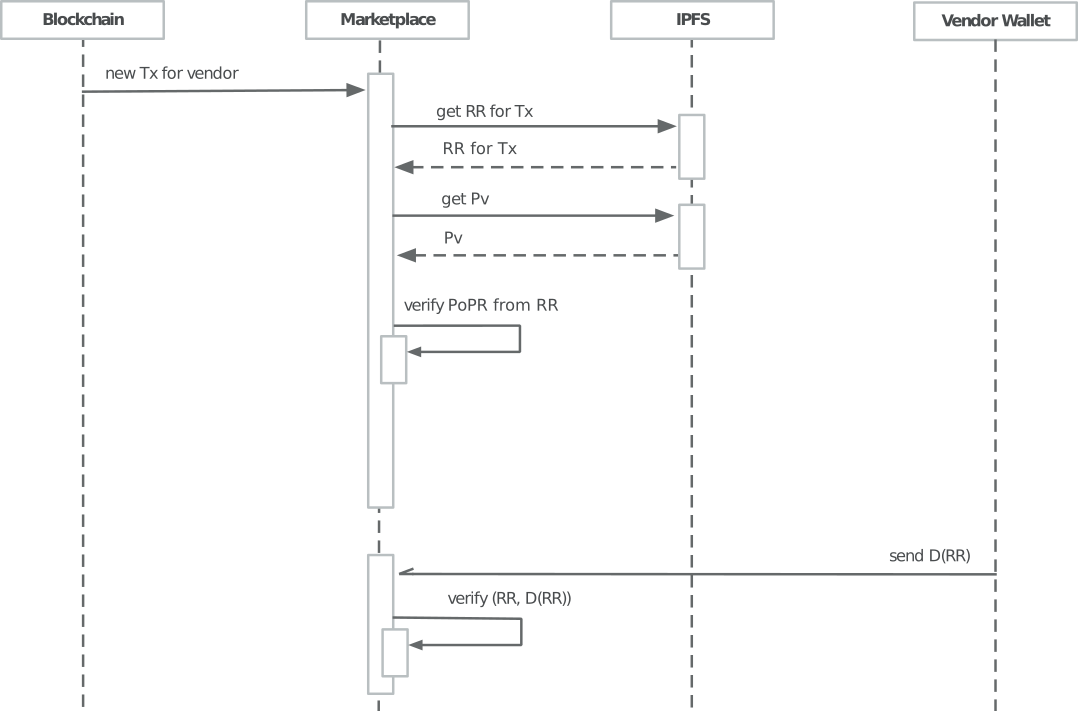
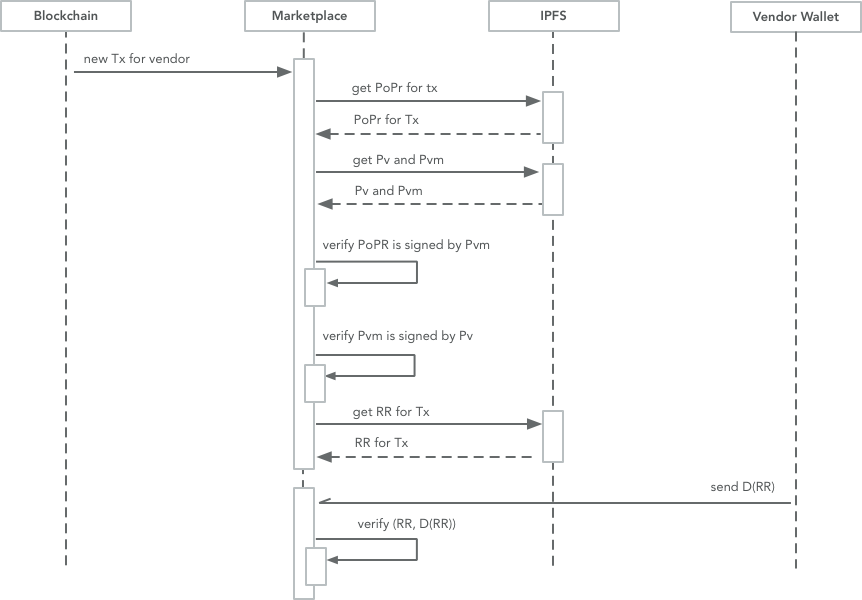
Update protocol to remove dependency on IPNS and include timestamping

diff --git a/chlu_protocol.md b/chlu_protocol.md
@@ -2,7 +2,7 @@
 # Abstract
 
 Chlu is an open protocol to capture ratings and reviews that can be
-validated by payments made via permissionless crypto currencies like
+validated by payments made via permissionless cryptocurrencies like
 Bitcoin, Litecoin, ZCash and Ethereum.
 
 No new blockchain is required to support Chlu, and there are no
@@ -32,7 +32,7 @@ marketplace.
 
 Numerous marketplaces and search engines allow users to leave reviews
 for a business without any verified purchase. Some businesses take
-adavantage of such systems by creating fake reviews for
+advantage of such systems by creating fake reviews for
 themselves. Chlu addresses this problem by requiring a user to prove
 they paid a vendor and that the vendor requested a payment from the
 user before allowing the user to leave a review and rating.
@@ -46,7 +46,7 @@ goals outlined above. The key components are
 2. Customer Wallet, and
 3. Marketplace library
 
-Each of these componets can be provided by any third party, as long as
+Each of these components can be provided by any third party, as long as
 these components follow the protocol described here. To be clear the
 terms 'vendor wallet provider', 'customer wallet provider' and 'market
 place library provider' are used in this document to mean any open
@@ -85,6 +85,8 @@ PoPR captures the request created by a vendor to make a payment
         required uint32 chlu_version = 11;
         repeated ReviewAttribute attributes = 12;
         required string signature = 13;
+        required string vendor_key_location = 14;
+        required string vendor_encryption_key_location = 15;
     }
 ```
 
@@ -99,10 +101,12 @@ currency_symbol | The currency symbol of the cryptocurrency used to make the pay
 amount | Number of base units in currency (e.g. Satoshis when using BTC)
 marketplace_url | URL of the marketplace where sale is taking place
 marketplace_vendor_url | URL of the vendor's profile on the marketplace
-key_location | The IPFS content address where the vendor's public key is available
+key_location | The IPFS content address where the marketplace specific vendor key is available. This key is signed by vendor's key available at `vendor_key_location`.
 chlu_version | The Chlu protocol version, see more in Versioning section
 attributes | Any detailed review attributes that the market wants the customer wallet to capture
 signature | Signature of all of the above, signed by the vendor's private key available to the marketplace or directly signed by the vendor
+vendor_key_location | The IPFS content address where the vendor's public key is available. This key is used to sign the key available at `key_location`.
+vendor_encryption_key_location | The IPFS content address where the vendor's public key for encrypting reviews is available. This key is signed by vendor's key available at `vendor_key_location`.
 
 ### ReviewAttribute
 
@@ -121,8 +125,8 @@ is_required | Is this attribute required to be completed
 ### Generating PoPR ###
 
 A PoPR can be generated directly by a vendor and shared with the
-customer using Facebook App Links or any other means for the wallet
-provider to send the PoPR.
+customer using Facebook App Links or Firebase Dynamic Links for the
+wallet provider to send the PoPR.
 
 A PoPR can also be generated by the marketplace library if a customer
 is checking out of the marketplace and making a payment to the vendor
@@ -159,6 +163,7 @@ vendor.
     required PoPR popr = 8;
     required uint32 chlu_version = 9;
     required string hash = 10;
+    required string prev = 11;
 }
 
 ```
@@ -174,6 +179,7 @@ rating | The overall rating, from 1 to 5, left by the customer. Optional because
 detailed_review | A list of ```DetailedReview``` that contains any other details a marketplace wants to capture about the review.
 popr | The Proof of Payment Request sent by the vendor to the customer. The customer wallet must include this to allow validation of the review.
 hash | The SHA256 hash of all the contents of the ```ReviewRecord```. This is useful for validating the review, as described in the Validating a Review section.
+prev | The IPFS location of the most recent review record created by the customer, if any.
 
 ### DetailedReview
 
@@ -186,9 +192,9 @@ answer the required review questions.
 
 The entire contents of the review record are hashed using SHA256 and
 saved in the ```hash``` field. Further, the entire contents (apart
-from the hash) are encrypted using the vendor public key accessible
-from IPFS. The location of the key and how it should be accessed by
-the Customer Wallet is described in the Vendor Wallet Setup section.
+from the hash) are encrypted using the vendor public encryption key
+accessible from IPFS. The location of the encryption key is included
+in the PoPR.
 
 ## Payment Record
 
@@ -226,22 +232,11 @@ managed by the wallet:
 1. Key pair used to sign and verify PoPR.
 2. Key pair used to encrypt and decrypt Review Record.
 
-### Setup IPNS for the vendor ###
-
-A new key should be generated on IPFS and then an IPNS name should be
-published for the vendor. This IPNS location is used to publish vendor
-keys as described in the next section. It is up to the wallet provider
-how the vendor IPFS key is created and safe guarded. The wallet also
-has to make sure this key is exported when the wallet is exported, as
-described in the Exporting Wallet section. The wallet also has to make
-sure the key can be imported and IPNS setup completed with the
-imported key.
-
 ### Setup Signing Key Pair (Sv, Pv) ###
 
 When the vendor is setting up their wallet for the first time, a new
-key pair should be generated to be used for signing the PoPR. They key
-pair should be an elliptical curce key pair using the same curve as
+key pair should be generated to be used for signing the PoPR. The key
+pair should be an elliptical curve key pair using the same curve as
 the one used in bitcoin - secp256k1.
 
 This key pair is different from the key pair used to generate bitcoin
@@ -251,24 +246,27 @@ The wallet needs to store the private key, Sv, in the wallet's
 persistent storage and let the vendor know this key is important to
 keep receiving reviews that can be validated in the future.
 
-The public key, Pv should be stored in the IPNS location created
-as described earlier in the 'Setup IPNS for the vendor' section.
+The public key, Pv, is sent to the marketplace when the vendor
+registers with a marketplace. Any reviews that have been signed by
+keys that are in turn signed by Pv are considered to be reviews for
+sales made by the vendor V.
 
 Wallets can also allow a means for the vendor to export this key pair
 for safe keeping. In such cases wallets should allow importing the
-exported key to reinitialize the wallet.
+exported key to reinitialised the wallet.
 
 ### Setup Encryption key pair (Sve, Pve) ###
 
 Wallets have to generate another key pair of type RSA with 2048
-length. This public key of this key pair is saved on IPNS as a file
-and the content hash saved in persistent storage by the wallet.
+length. The public key of this key pair is signed by the key Sv and
+the signed public key is then saved on IPFS. The location of this
+signed encryption key Pve is sent to the marketplace during vendor
+registration.
 
 The sequence diagram shows the wallet setup for vendor wallet.
 
 ![Sequence diagram for generating vendor's signing and encryption keys
-and publishing them on
-IPNS](./images/vendor-wallet-init.png)
+and publishing them on IPFS](./images/vendor-wallet-init.png)
 
 
 ## Exporting Wallet ##
@@ -281,7 +279,7 @@ Chlu wallet, the wallet has to export all of the following:
    be exported as mnemonics and key paths, but others like Ethereum
    require a secret that can be saved. Chlu wallets should export all
    such required information for all cryptocurrencies supported.
-2. Wallets should export the Signing and Encryption key pairs as
+2. Wallets should export the signing and encryption key pairs as
    well. A mnemonic can be used to export the signing key pair, and an
    RSA encryption key should be exported in PEM/base64 format
 3. Finally, wallets have to export the IPFS RSA key used to publish
@@ -291,7 +289,7 @@ Chlu wallet, the wallet has to export all of the following:
 
 Setting up a customer wallet is less involved than the vendor
 wallet. The wallet should enable the customer to import keys or create
-new keys for all the crypto currencies supported by the wallet.
+new keys for all the cryptocurrencies supported by the wallet.
 
 The wallet must also allow exporting all the keys in the same way as
 described in the Exporting Wallet section.
@@ -299,19 +297,20 @@ described in the Exporting Wallet section.
 The wallet setup should also make sure that there is a means to
 connect with, read and write to IPFS.
 
-### Setup IPNS for the customer ###
+### Setup Review Signing Keys ###
 
-A new key should be generated on IPFS and then an IPNS name should be
-published for the customer. This process is the same as followed for
-the vendor wallet setup. IPNS is used to publish reviews authored by
-the customer. This enables a customer to update the review or even
+Customer wallets should generate a key pair for signing reviews. The
+key pair should be an elliptical curve key pair using the same curve
+as the one used in bitcoin - secp256k1.
+
+This key is used by the customer wallet to update the review or even
 defer writing the first review until after the product has been
 received. The section 'Updating a review' describes this in detail.
 
-It is up to the wallet provider how the vendor IPFS key is created and
-safe guarded. The wallet also has to make sure this key is exported
-when the wallet is exported, as described in the Exporting Wallet
-section.
+It is up to the wallet provider how the customer signing key is
+created and safe guarded. The wallet also has to make sure this key is
+exported when the wallet is exported, as described in the Exporting
+Wallet section.
 
 # Making a payment with review
 
@@ -323,13 +322,12 @@ The payment made conforms to the Payment Record message described
 above and available [here](./protobuf/payment.proto "payment.proto").
 
 The Payment Record includes a reference to the Review Record which
-inturn holds a reference to the Proof of Payment Request.
+in turn holds a reference to the Proof of Payment Request.
 
 The customer wallet must save a review record with the required fields
 and include it in the Payment Record, even if the customer is not
 leaving a review. The presence of Review Record in the Payment Record
 is essential to enable validation of the Payment and the Review.
-
 
 The sequence diagram shows the protocol for customer wallet to create
 and save the review as well as make a payment transaction on any
@@ -339,17 +337,30 @@ receiving a payment request from the vendor or marketplace.
 ![Sequence diagram for saving reviews and making a payment using any
  supported cryptocurrency](./images/payment-processing.png)
 
+## Time stamping Review ##
+
+Whenever a customer creates or updates a review, the customer wallet
+should include a hash to the most recent review record created by the
+customer. The hash is saved in the ```prev``` attribute of the review
+record. This attribute can be blank if this is first ever review
+created by a customer. This chain of hashes between a customer
+authored review allow marketplace to get the time elapsed between a
+review creation and review update. This limits the potential of a
+customer to sell review update rights to an attacking vendor.
+
 ## Updating a review
 
-All the reviews by a customer are published under an IPNS location
-controlled by the customer's wallet. A customer can create a new
+All the reviews by a customer are signed by the customer signing key
+created during customer wallet setup. A customer can create a new
 review without requiring any permission. 
 
-To achieve the above, the customer wallet has to save the review under
-the customer's IPNS location and include the original PoPR the
-customer received.
+Each new review has to include the PoPR that resulted in the
+payment. Without a valid PoPR, a review is considered invalid, and
+should not be used to compute a vendor's reputation score. Review
+updates instead do not include a PoPR but have a hash pointer to the
+previous review that is being updated.
 
-The above proves that the the customer is overwritting the earlier
+The above proves that the the customer is overwriting the earlier
 review and the customer has purchased the relevant good from the
 vendor.
 
@@ -370,23 +381,31 @@ to share the reviews with the market. A vendor can share the review
 and ratings data in a couple of different ways.
 
 1. A vendor shares the list of addresses and cryptocurrencies where
-   the vendor recieves payments.
+   the vendor receives payments.
 2. A vendor runs a service to push reviews to a marketplace. The
    vendor wallet can choose to provide this service to the vendor, but
    it is not a required feature. The review record has a reference to
-   the payment captured by customer_address, vendor_adress and the
+   the payment captured by customer_address, vendor_address and the
    currency symbol
 
 To validate a review a marketplace must follow the protocol:
 
 1. For a given review, fetch the Proof of Payment Requested, PoPR.
-2. Fetch the vendor public signature key, Pv from the vendors IPNS
-   name listed in the PoPR's ```key_location``` attribute.
-3. Validate PoPR using Pv.
+2. Fetch the vendor public signature key, Pvm from IPFS location
+   included in the PoPR's ```key_location``` attribute.
+2. Fetch the vendor public signature key, Pv from IPFS location
+   included in the PoPR's ```vendor_key_location``` attribute.
+2. Fetch the vendor public encryption key, Pve from IPFS location
+   included in the PoPR's ```vendor_encryption_key_location``` attribute.
+3. Verify that Pv is the same as that sent to the marketplace by the
+   vendor at registration time.
+4. Validate that Pve is signed by Pv.
+5. Validate that PoPR is signed by Pvm.
+6. Validate that Pvm is signed by Pv and Pm.
 4. Verify that the contents of the Review Record result in the same
    hash as included in the Review Record.
 
-If any of the verifications in the above procedure fail, the
+If any of the verification in the above procedure fail, the
 marketplace must not include the review in the vendor profile, or
 explicitly mark the review as 'not verified with Chlu.'
 
@@ -401,9 +420,14 @@ vendor. Marketplaces can choose to order them in anyway, and run any
 statistics and/or algorithms to derive vendor reputation scores, but
 they should not make any validatable review inaccessible to its users.
 
+Any third party, including vendor wallets can verify that marketplaces
+are listing all the reviews and doing so correctly. This prevents
+marketplaces from selecting hiding or showing incorrect reviews for a
+vendor.
+
 # Versioning
 
-The protocol buffers serialization format is designed to be
+The protocol buffers serialisation format is designed to be
 extensible. In particular, new, optional fields can be added to a
 message and will be ignored (but saved/re-transmitted) by old
 implementations.
